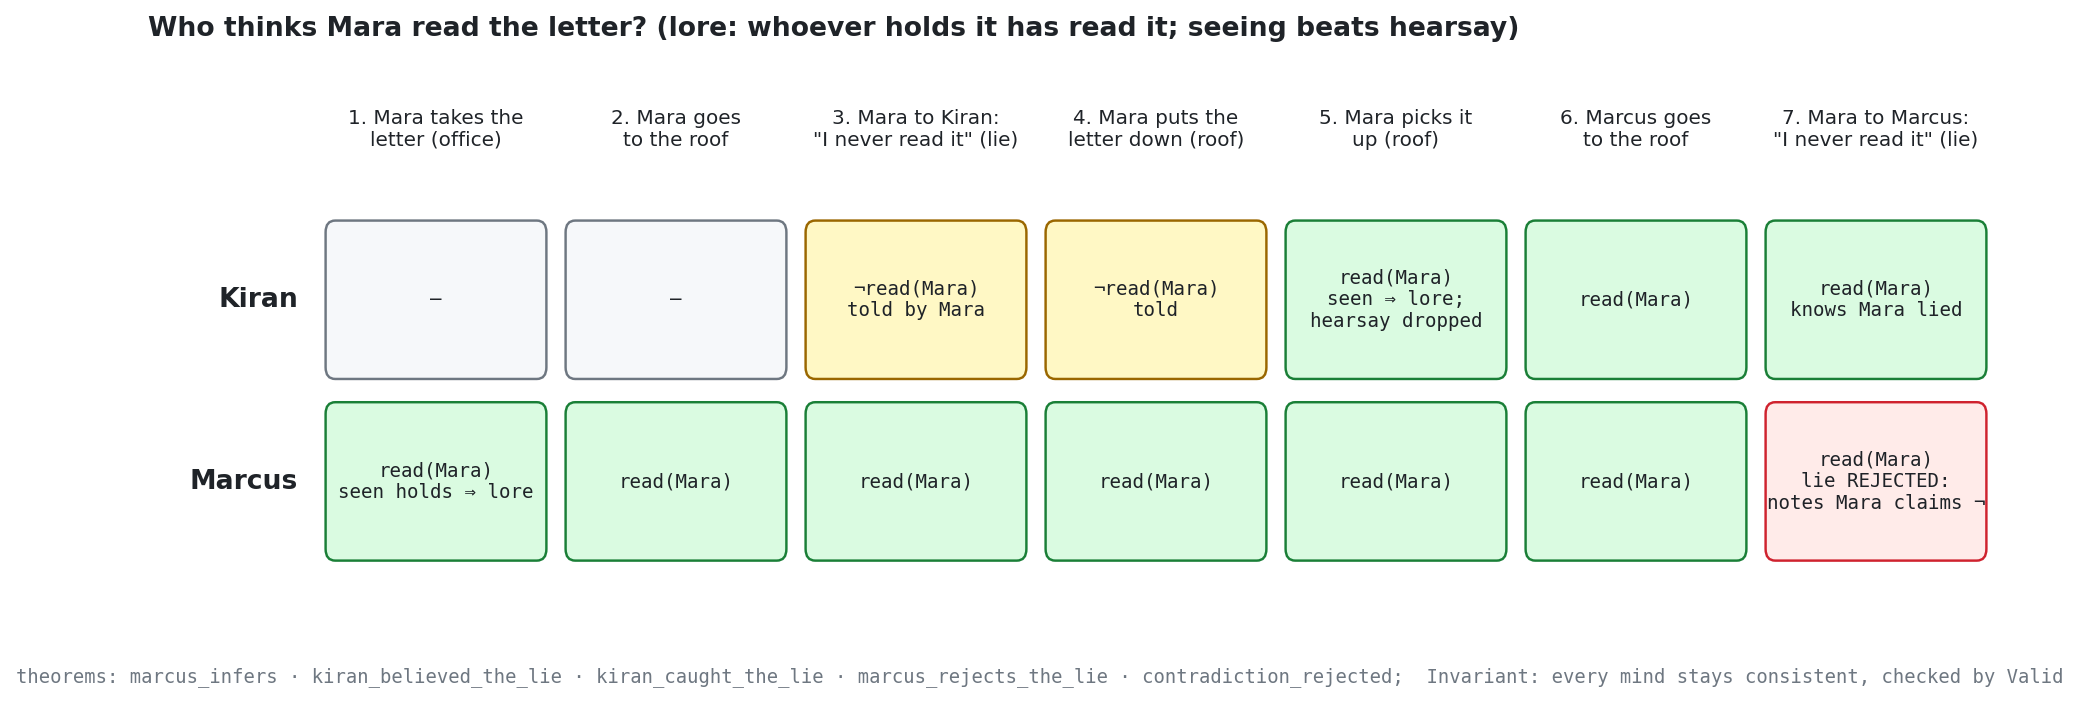
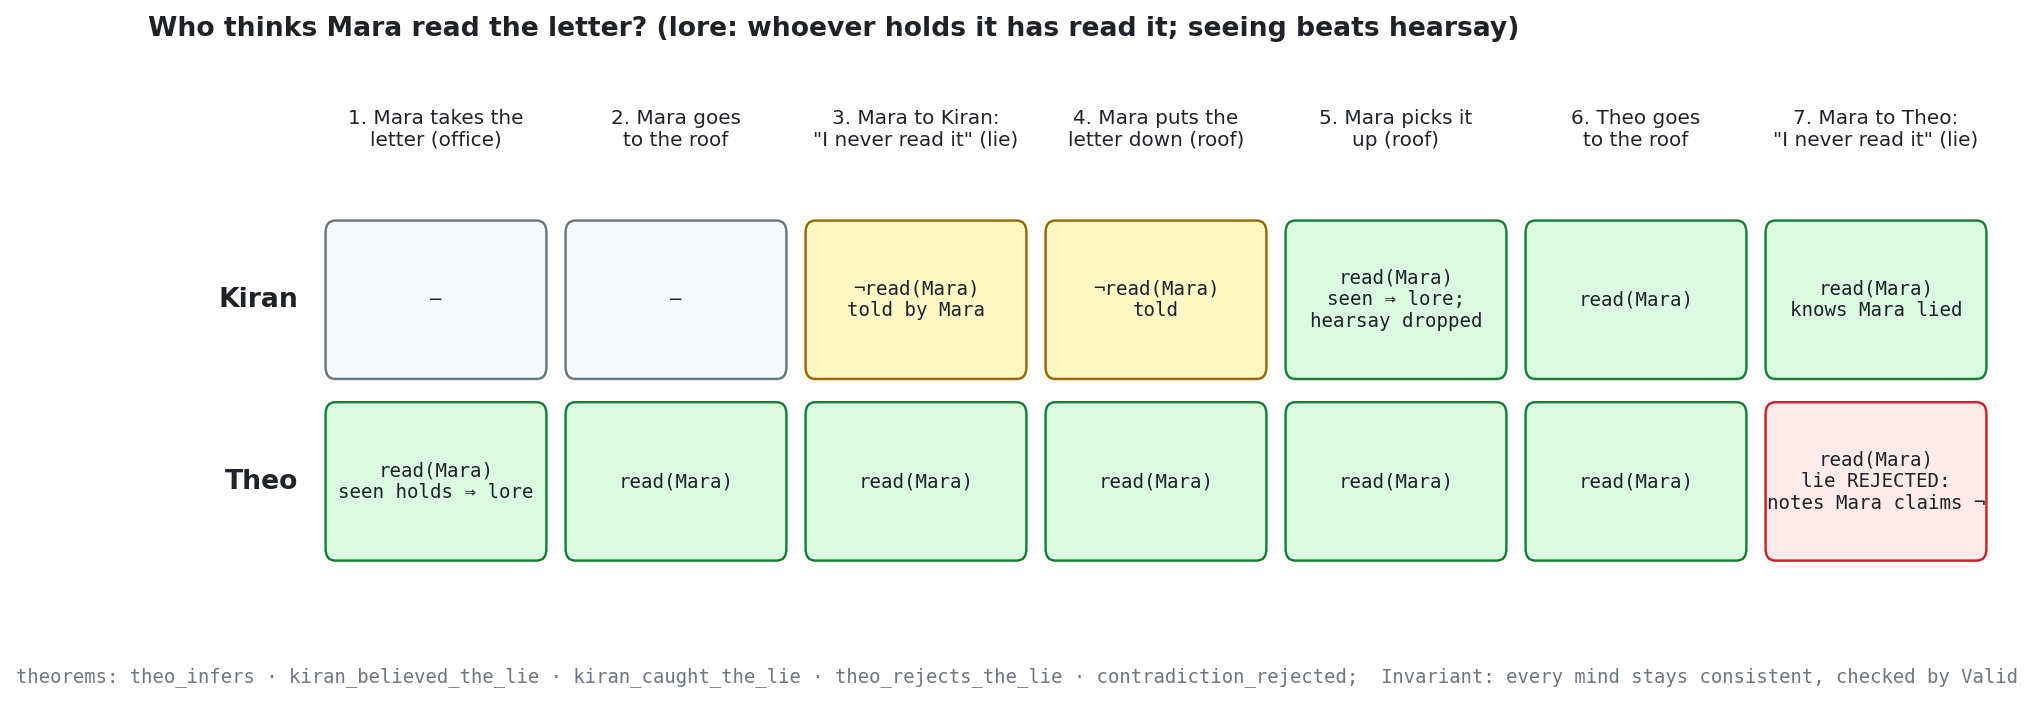
Rename Marcus to Theo throughout; re-render figures

diff --git a/viz/world.py b/viz/world.py
@@ -37,15 +37,15 @@ def modules():
 
 def timeline():
     # (told index, text, module colour, interval)
-    ev = [(0, "Marcus confides in Kiran", SOCIAL, (2, 4)),
-          (1, "Marcus flirts", SOCIAL, (4, 5)),
+    ev = [(0, "Theo confides in Kiran", SOCIAL, (2, 4)),
+          (1, "Theo flirts", SOCIAL, (4, 5)),
           (2, "Kiran flirts back", SOCIAL, (5, 6)),
           (3, "meanwhile: Mara takes the letter (office)", SPACE, (3, 6)),
-          (4, "Marcus asks to kiss her", SOCIAL, (6, 7)),
+          (4, "Theo asks to kiss her", SOCIAL, (6, 7)),
           (5, "Kiran agrees", SOCIAL, (7, 8)),
-          (6, "Marcus agrees", SOCIAL, (7, 8)),
-          (7, "Kiran kisses Marcus", SOCIAL, (8, 9)),
-          (8, "flashback: Marcus left the letter", SPACE, (0, 1)),
+          (6, "Theo agrees", SOCIAL, (7, 8)),
+          (7, "Kiran kisses Theo", SOCIAL, (8, 9)),
+          (8, "flashback: Theo left the letter", SPACE, (0, 1)),
           (9, "… and came up to the roof", SPACE, (1, 2))]
     fig, ax = plt.subplots(figsize=(13, 6.4))
     for i, text, c, (s, e) in ev:
@@ -69,7 +69,7 @@ def timeline():
     ax.set_title("The office story: rows in the order the text tells it, bars in story time",
                  loc="left", fontsize=12.5, color=INK, family=SANS, fontweight="bold", x=-0.42)
     beliefs = ("at t = 9 (all proved by decide):\n"
-               "Marcus believes the letter is in the office   FALSE (false belief)\n"
+               "Theo believes the letter is in the office   FALSE (false belief)\n"
                "Mara knows she holds the letter\n"
                "Kiran saw the kiss; Mara never did\n"
                "Kiran stays on the roof throughout event 3")
@@ -83,13 +83,13 @@ def timeline():
 
 def gossip():
     steps = ["Mara takes the\nletter (office)", "Mara goes\nto the roof", "Mara to Kiran:\n\"I never read it\" (lie)",
-             "Mara puts the\nletter down (roof)", "Mara picks it\nup (roof)", "Marcus goes\nto the roof",
-             "Mara to Marcus:\n\"I never read it\" (lie)"]
+             "Mara puts the\nletter down (roof)", "Mara picks it\nup (roof)", "Theo goes\nto the roof",
+             "Mara to Theo:\n\"I never read it\" (lie)"]
     G, R, A, N = ("#dafbe1", "#1a7f37"), ("#ffebe9", "#cf222e"), ("#fff8c5", "#9a6700"), ("#f6f8fa", MUTED)
     rows = {
         "Kiran": [("—", N), ("—", N), ("¬read(Mara)\ntold by Mara", A), ("¬read(Mara)\ntold", A),
                   ("read(Mara)\nseen ⇒ lore;\nhearsay dropped", G), ("read(Mara)", G), ("read(Mara)\nknows Mara lied", G)],
-        "Marcus": [("read(Mara)\nseen holds ⇒ lore", G), ("read(Mara)", G), ("read(Mara)", G), ("read(Mara)", G),
+        "Theo": [("read(Mara)\nseen holds ⇒ lore", G), ("read(Mara)", G), ("read(Mara)", G), ("read(Mara)", G),
                    ("read(Mara)", G), ("read(Mara)", G), ("read(Mara)\nlie REJECTED:\nnotes Mara claims ¬", R)],
     }
     fig, ax = plt.subplots(figsize=(15, 4.6))
@@ -106,7 +106,7 @@ def gossip():
     ax.set_xlim(-1.4, len(steps) * cw + 0.1); ax.set_ylim(-0.3, 2 * ch + 1.1); ax.axis("off")
     ax.set_title("Who thinks Mara read the letter? (lore: whoever holds it has read it; seeing beats hearsay)",
                  loc="left", fontsize=12, family=SANS, fontweight="bold", color=INK)
-    fig.text(0.07, 0.02, "theorems: marcus_infers · kiran_believed_the_lie · kiran_caught_the_lie · marcus_rejects_the_lie · "
+    fig.text(0.07, 0.02, "theorems: theo_infers · kiran_believed_the_lie · kiran_caught_the_lie · theo_rejects_the_lie · "
              "contradiction_rejected;  Invariant: every mind stays consistent, checked by Valid",
              fontsize=8.5, family=MONO, color=MUTED)
     fig.savefig(OUT / "11-gossip-beliefs.png", dpi=160, bbox_inches="tight", facecolor="white")
@@ -115,15 +115,15 @@ def gossip():
 
 
 def office_text():
-    ev = [(0, "Marcus confided in Kiran.", SOCIAL, (51, 52)),
+    ev = [(0, "Theo confided in Kiran.", SOCIAL, (51, 52)),
           (1, "He flirted with her,", SOCIAL, (53, 54)),
           (2, "and she flirted with him.", SOCIAL, (55, 58)),
           (3, "Meanwhile, Mara took the letter.", SPACE, (56, 57)),
-          (4, "Marcus asked Kiran for a kiss.", SOCIAL, (59, 60)),
+          (4, "Theo asked Kiran for a kiss.", SOCIAL, (59, 60)),
           (5, "Kiran agreed to kiss him,", SOCIAL, (61, 62)),
-          (6, "and Marcus agreed to kiss her.", SOCIAL, (63, 64)),
-          (7, "Kiran kissed Marcus.", SOCIAL, (65, 66)),
-          (8, "An hour earlier, Marcus had left the letter in the office", SPACE, (0, 1)),
+          (6, "and Theo agreed to kiss her.", SOCIAL, (63, 64)),
+          (7, "Kiran kissed Theo.", SOCIAL, (65, 66)),
+          (8, "An hour earlier, Theo had left the letter in the office", SPACE, (0, 1)),
           (9, "and gone up to the roof.", SPACE, (2, 3))]
     fig, (a1, a2) = plt.subplots(1, 2, figsize=(15, 5.2), gridspec_kw={"width_ratios": [1, 2.6], "wspace": 0.04}, sharey=True)
     for ax, lo, hi in ((a1, -0.5, 4.5), (a2, 49.5, 67)):
@@ -153,7 +153,7 @@ if __name__ == "__main__":
 
 def gossip2():
     steps = ["Mara takes the letter\n(office)", "Mara → Kiran:\n\"I never read it\"", "Mara picks it up\n(roof, Kiran sees)",
-             "Mara → Marcus:\n\"I never read it\""]
+             "Mara → Theo:\n\"I never read it\""]
     rows = {
         "Kiran\ngullible · trusts Mara (2)": [
             ("—", "", "#f6f8fa", MUTED),
@@ -161,7 +161,7 @@ def gossip2():
             ("+ holds(Mara)  seen 5, newer\n  ¬read(Mara) kept, outranked\n  caught Mara: trust 2 → 1",
              "view: read(Mara) (by lore)", "#dafbe1", "#1a7f37"),
             ("", "view: read(Mara)", "#dafbe1", "#1a7f37")],
-        "Marcus\nskeptical · trust in Mara 0": [
+        "Theo\nskeptical · trust in Mara 0": [
             ("+ holds(Mara)  seen 5  radical", "view: read(Mara) (by lore)", "#dafbe1", "#1a7f37"),
             ("", "view: read(Mara)", "#dafbe1", "#1a7f37"),
             ("", "view: read(Mara)", "#dafbe1", "#1a7f37"),
@@ -183,7 +183,7 @@ def gossip2():
     ax.set_title("Evidence, trust and persona decide how a claim is taken; nothing is deleted, the view is the consistent top of the ranking",
                  loc="left", fontsize=11.5, family=SANS, fontweight="bold", color=INK, x=-0.15)
     fig.text(0.02, 0.0, "strength = prior(evidence) + trust ±1 + gullible/skeptical ±1;  ≥ accept → radical, accept−1 → conservative, below → note.  "
-             "theorems: kiran_caught_the_lie · nothing_forgotten · kiran_trusts_mara_less · marcus_only_notes · realise_too_early",
+             "theorems: kiran_caught_the_lie · nothing_forgotten · kiran_trusts_mara_less · theo_only_notes · realise_too_early",
              fontsize=8, family=MONO, color=MUTED)
     fig.savefig(OUT / "13-evidence.png", dpi=160, bbox_inches="tight", facecolor="white")
     plt.close(fig)

diff --git a/viz/stack.py b/viz/stack.py
@@ -172,7 +172,7 @@ def system():
                 f'color="{colour}" style="rounded"><tr><td align="left"><b><font color="{colour}">{html.escape(title)}</font></b></td></tr>{rows}</table>>];')
     L = ['digraph S { rankdir=LR; bgcolor="white"; nodesep=0.35; ranksep=0.5; fontname="DejaVu Sans";',
          'edge [color="#8c959f", arrowsize=0.7, fontname="DejaVu Sans", fontsize=9, fontcolor="#6e7781"];',
-         box("txt", "prose", ["Marcus confided in Kiran.", "Meanwhile, Mara took the letter.", "An hour earlier, …"], "#57606a"),
+         box("txt", "prose", ["Theo confided in Kiran.", "Meanwhile, Mara took the letter.", "An hour earlier, …"], "#57606a"),
          box("llm", "LLM (Opus / Sonnet / Fable)", ["prompt.md → JSON document", "retries with checker report"], "#57606a"),
          box("chk", "1 · langlib check", ["tokenize text = d.render", "refs resolve, pronouns agree", "→ faithful Doc"], "#1a7f37"),
          box("cl", "6 · Doc.clauses", ["verb, subj, obj, obls,", "complements, adverbials"], "#9a6700"),
@@ -182,7 +182,7 @@ def system():
          box("val", "4 · Timed.Valid w s", ["timeline ⊨ constraints, metric", "Valid w chrono", "  ok · Inv · next"], "#57606a"),
          box("mod", "5 · modules", ["Space · Minds · Relationships", "Persona · Magic · …", "ok / step / why / Perceive"], "#bf3989"),
          box("dl", "2 · defeasible logic", ["inCharacter T q = true", "  ⇒ NotDef T ¬q (Cert.sound)"], "#8250df"),
-         box("thm", "theorems", ["fromText_valid : fromText.Valid start", "marcus_false_belief", "kiss_needs_consent"], "#1a7f37"),
+         box("thm", "theorems", ["fromText_valid : fromText.Valid start", "theo_false_belief", "kiss_needs_consent"], "#1a7f37"),
          box("fb", "feedback to the writer", ["why: \"out of character …", "  first establish …\"", "token diffs, ref issues"], "#cf222e"),
          'txt -> llm -> chk; chk -> cl [label="Doc"]; cl -> lex; lex -> sol [label="Story"]; sol -> tim; tim -> val;',
          'mod -> val [label="Domain W E"]; dl -> mod [label="persona rules"]; val -> thm [label="decide +kernel"];',

diff --git a/docs/lit-epistemics.md b/docs/lit-epistemics.md
@@ -65,7 +65,7 @@ Kratzer's modal semantics ([*Modals and Conditionals*, OUP 2012](https://doi.org
 
 ### 1.5 Perspective, free indirect discourse, unreliable narrators
 
-Narrative adds a layer that conversation lacks: **whose** commitment is it? In **free indirect discourse** ("Of course the letter was in the office. Where else would Marcus have put it?") a past-tense, third-person sentence expresses a *character's* belief, not the narrator's (Banfield, *Unspeakable Sentences*, 1982; [overview](https://en.wikipedia.org/wiki/Free_indirect_speech)). Signals include evaluative words, questions and exclamations, deictics anchored to the character (*now, here, tomorrow* with past tense), and epithets in the character's voice. A Booth-style **unreliable narrator** (*The Rhetoric of Fiction*, 1961) is the limiting case: the whole narration is one agent's belief state.
+Narrative adds a layer that conversation lacks: **whose** commitment is it? In **free indirect discourse** ("Of course the letter was in the office. Where else would Theo have put it?") a past-tense, third-person sentence expresses a *character's* belief, not the narrator's (Banfield, *Unspeakable Sentences*, 1982; [overview](https://en.wikipedia.org/wiki/Free_indirect_speech)). Signals include evaluative words, questions and exclamations, deictics anchored to the character (*now, here, tomorrow* with past tense), and epithets in the character's voice. A Booth-style **unreliable narrator** (*The Rhetoric of Fiction*, 1961) is the limiting case: the whole narration is one agent's belief state.
 
 Zunshine ([*Why We Read Fiction*, 2006](https://philarchive.org/archive/ZUNEPC)) builds on Cosmides & Tooby's ["Consider the source"](https://www.cep.ucsb.edu/wp-content/uploads/2023/05/metarep.pdf). Her argument is that readers store fictional content with **source tags** ("Mara believes / Mara said / the narrator asserts"), and that much of the pleasure of fiction is managing those tags. Source tags in her sense are our `Held.src`, and her point is that readers keep them on *narrator* content too.
 

diff --git a/README.md b/README.md
@@ -30,7 +30,7 @@ $ langlib check examples/cata.txt bad.json
  ["token 2 \"finally\" is missing (near: When she finally walked in ,)",
   "token 10 \"him\" was written as \"her\" (near: Kiran didn't look at him . \" Sit)"],
  "refIssues":
- ["pronoun \"her\" (token 9) refers to \"marcus\", whose pronouns are he"],
+ ["pronoun \"her\" (token 9) refers to \"theo\", whose pronouns are he"],
 ```
 
 Story worlds are assembled from modules, and stories about them are theorems:
@@ -39,15 +39,15 @@ Story worlds are assembled from modules, and stories about them are theorems:
 abbrev E := SpaceEv Ch Pl Ob ⊕ MindEv Ch Fact ⊕ SocialEv Ch
 
 def told : List E :=
-  [ so (.confide marcus kiran), so (.flirt marcus kiran), so (.flirt kiran marcus),
+  [ so (.confide theo kiran), so (.flirt theo kiran), so (.flirt kiran theo),
     sp (.take mara letter),                                 -- meanwhile, in the office
-    so (.ask marcus kiran .kiss), so (.agree kiran marcus .kiss),
-    so (.agree marcus kiran .kiss), so (.act kiran marcus .kiss),
-    sp (.drop marcus letter), sp (.move marcus roof) ]      -- flashback
+    so (.ask theo kiran .kiss), so (.agree kiran theo .kiss),
+    so (.agree theo kiran .kiss), so (.act kiran theo .kiss),
+    sp (.drop theo letter), sp (.move theo roof) ]      -- flashback
 
 theorem story_valid : story.Valid start := by decide +kernel
-theorem marcus_false_belief :
-    falseBelief ends marcus (fact (.objAt letter office)) = true := by decide +kernel
+theorem theo_false_belief :
+    falseBelief ends theo (fact (.objAt letter office)) = true := by decide +kernel
 theorem kiss_needs_consent : ¬ Valid start noConsent := by decide +kernel
 ```
 
